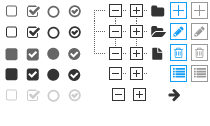
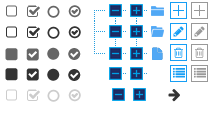
提交设备建模页面样式.登录成功，导航栏隐藏。

diff --git a/renren-admin/src/main/resources/statics/plugins/ztree/css/metroStyle/metroStyle.css b/renren-admin/src/main/resources/statics/plugins/ztree/css/metroStyle/metroStyle.css
@@ -14,7 +14,7 @@ website:    http://code.google.com/p/jquerytree/
 .ztree li ul{ margin:0; padding:0 0 0 18px}
 .ztree li ul.line{ background:url(./img/line_conn.png) 0 0 repeat-y;}
 
-.ztree li a {padding-right:3px; margin:0; cursor:pointer; height:21px; color:#333; background-color: transparent; text-decoration:none; vertical-align:top; display: inline-block}
+.ztree li a {padding-right:3px; margin:0; cursor:pointer; height:21px; color:#f4f4f4; background-color: transparent; text-decoration:none; vertical-align:top; display: inline-block}
 .ztree li a:hover {text-decoration:underline}
 .ztree li a.curSelectedNode {padding-top:0px; background-color:#e5e5e5; color:black; height:21px; opacity:0.8;}
 .ztree li a.curSelectedNode_Edit {padding-top:0px; background-color:#e5e5e5; color:black; height:21px; border:1px #666 solid; opacity:0.8;}
@@ -28,7 +28,7 @@ website:    http://code.google.com/p/jquerytree/
 .ztree li span.button {line-height:0; margin:0; padding: 0; width:21px; height:21px; display: inline-block; vertical-align:middle;
   border:0 none; cursor: pointer;outline:none;
   background-color:transparent; background-repeat:no-repeat; background-attachment: scroll;
-  background-image:url("./img/metro.png"); *background-image:url("./img/metro.gif")}
+  background-image:url("img/metro.png"); *background-image:url("./img/metro.gif")}
 
 .ztree li span.button.chk {width:13px; height:13px; margin:0 2px; cursor: auto}
 .ztree li span.button.chk.checkbox_false_full {background-position: -5px -5px;}
@@ -90,7 +90,7 @@ ul.tmpTargetzTree {background-color:#FFE6B0; opacity:0.8; filter:alpha(opacity=8
 
 span.tmpzTreeMove_arrow {width:16px; height:21px; display: inline-block; padding:0; margin:2px 0 0 1px; border:0 none; position:absolute;
     background-color:transparent; background-repeat:no-repeat; background-attachment: scroll;
-    background-position:-168px -84px; background-image:url("./img/metro.png"); *background-image:url("./img/metro.gif")}
+    background-position:-168px -84px; background-image:url("img/metro11.png"); *background-image:url("./img/metro.gif")}
 
 ul.ztree.zTreeDragUL {margin:0; padding:0; position:absolute; width:auto; height:auto;overflow:hidden; background-color:#cfcfcf; border:1px #00B83F dotted; opacity:0.8; filter:alpha(opacity=80)}
 .ztreeMask {z-index:10000; background-color:#cfcfcf; opacity:0.0; filter:alpha(opacity=0); position:absolute}

diff --git a/renren-admin/src/main/resources/templates/modules/sys/modelalgorithms.html b/renren-admin/src/main/resources/templates/modules/sys/modelalgorithms.html
@@ -4,7 +4,7 @@
     <title>模型类属性</title>
     <#include "/header.html">
 </head>
-<body>
+<body class="bg">
 <div id="rrapp" v-cloak>
     <div v-show="showList">
     <!--<div v-show="showList">-->
@@ -31,13 +31,13 @@
   <div id="jqGridPager"></div>-->
 <table>
     <tr>
-        <td width="200px" style="vertical-align:top" ><!-- 选择父类-->
+        <td width="250px" style="vertical-align:top" class="std" ><!-- 选择父类-->
 
             <div id="classLayerMain" style="padding:10px;">
                 <ul id="classTreeMain" class="ztree"></ul>
             </div>
         </td>
-        <td width="1000px"  >
+        <td width="1000px" class="stdright"  >
 
             <div  class="layui-tab layui-tab-card">
                 <ul class="layui-tab-title">
@@ -325,5 +325,6 @@
 <script src="${request.contextPath}/statics/js/modules/sys/modelalgorithms.js?_${.now?long}"></script>
 <script src="${request.contextPath}/statics/plugins/layui/lay/dest/layui.all.js"></script>
 <link rel="stylesheet" href="${request.contextPath}/statics/plugins/layui/css/layui.css">
+<link rel="stylesheet" href="${request.contextPath}/statics/css/gorithms.css">
 </body>
 </html>

diff --git a/renren-admin/src/main/resources/statics/css/gorithms.css b/renren-admin/src/main/resources/statics/css/gorithms.css
@@ -1,0 +1,26 @@
+
+
+.bg{
+    width: 100%;
+    height: 100%;
+    padding: 0;
+    opacity:1;
+    margin-top: 0;
+    margin-left: 0;
+    background:url(../../statics/statimg/bg.png) no-repeat;
+    position: fixed;
+    background-size: 100%;
+
+}
+
+.std{
+
+    background:url(../../statics/statimg/bgxt.png) no-repeat;
+
+}
+.stdright{
+    background:url(../../statics/statimg/bgright.png) no-repeat;
+}
+
+
+

diff --git a/renren-admin/src/main/resources/templates/index.html b/renren-admin/src/main/resources/templates/index.html
@@ -21,7 +21,7 @@
   <![endif]-->
 </head>
 <!-- ADD THE CLASS layout-boxed TO GET A BOXED LAYOUT -->
-<body class="hold-transition skin-blue sidebar-mini">
+<body class="hold-transition skin-blue sidebar-mini sidebar-collapse">
 <!-- Site wrapper -->
 <div class="wrapper" id="rrapp" v-cloak>
   <header class="main-header">
